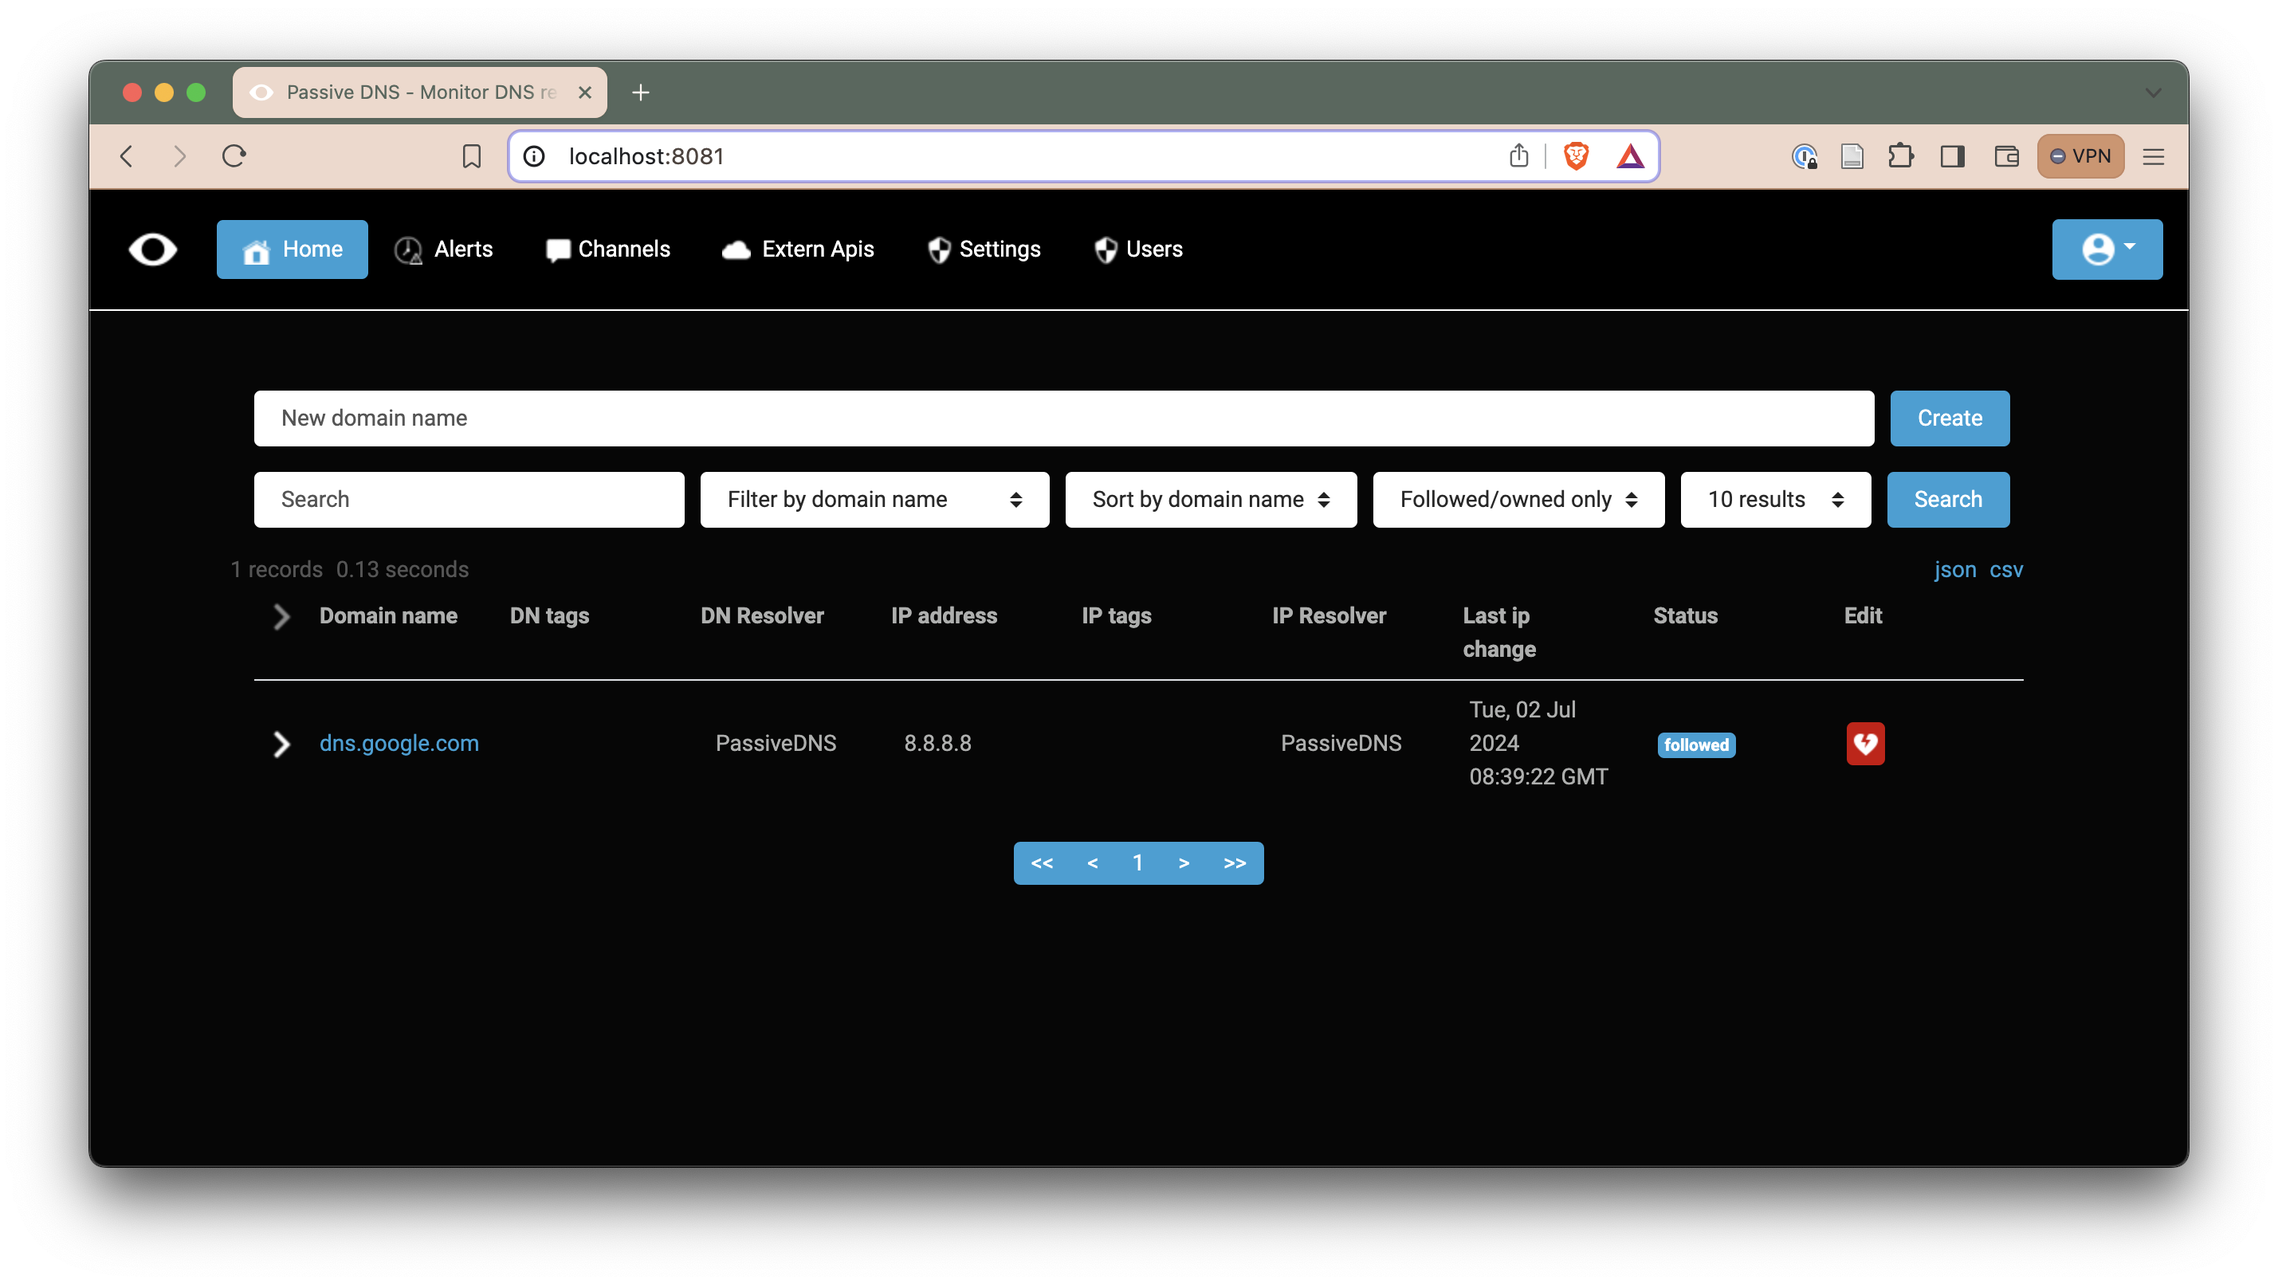
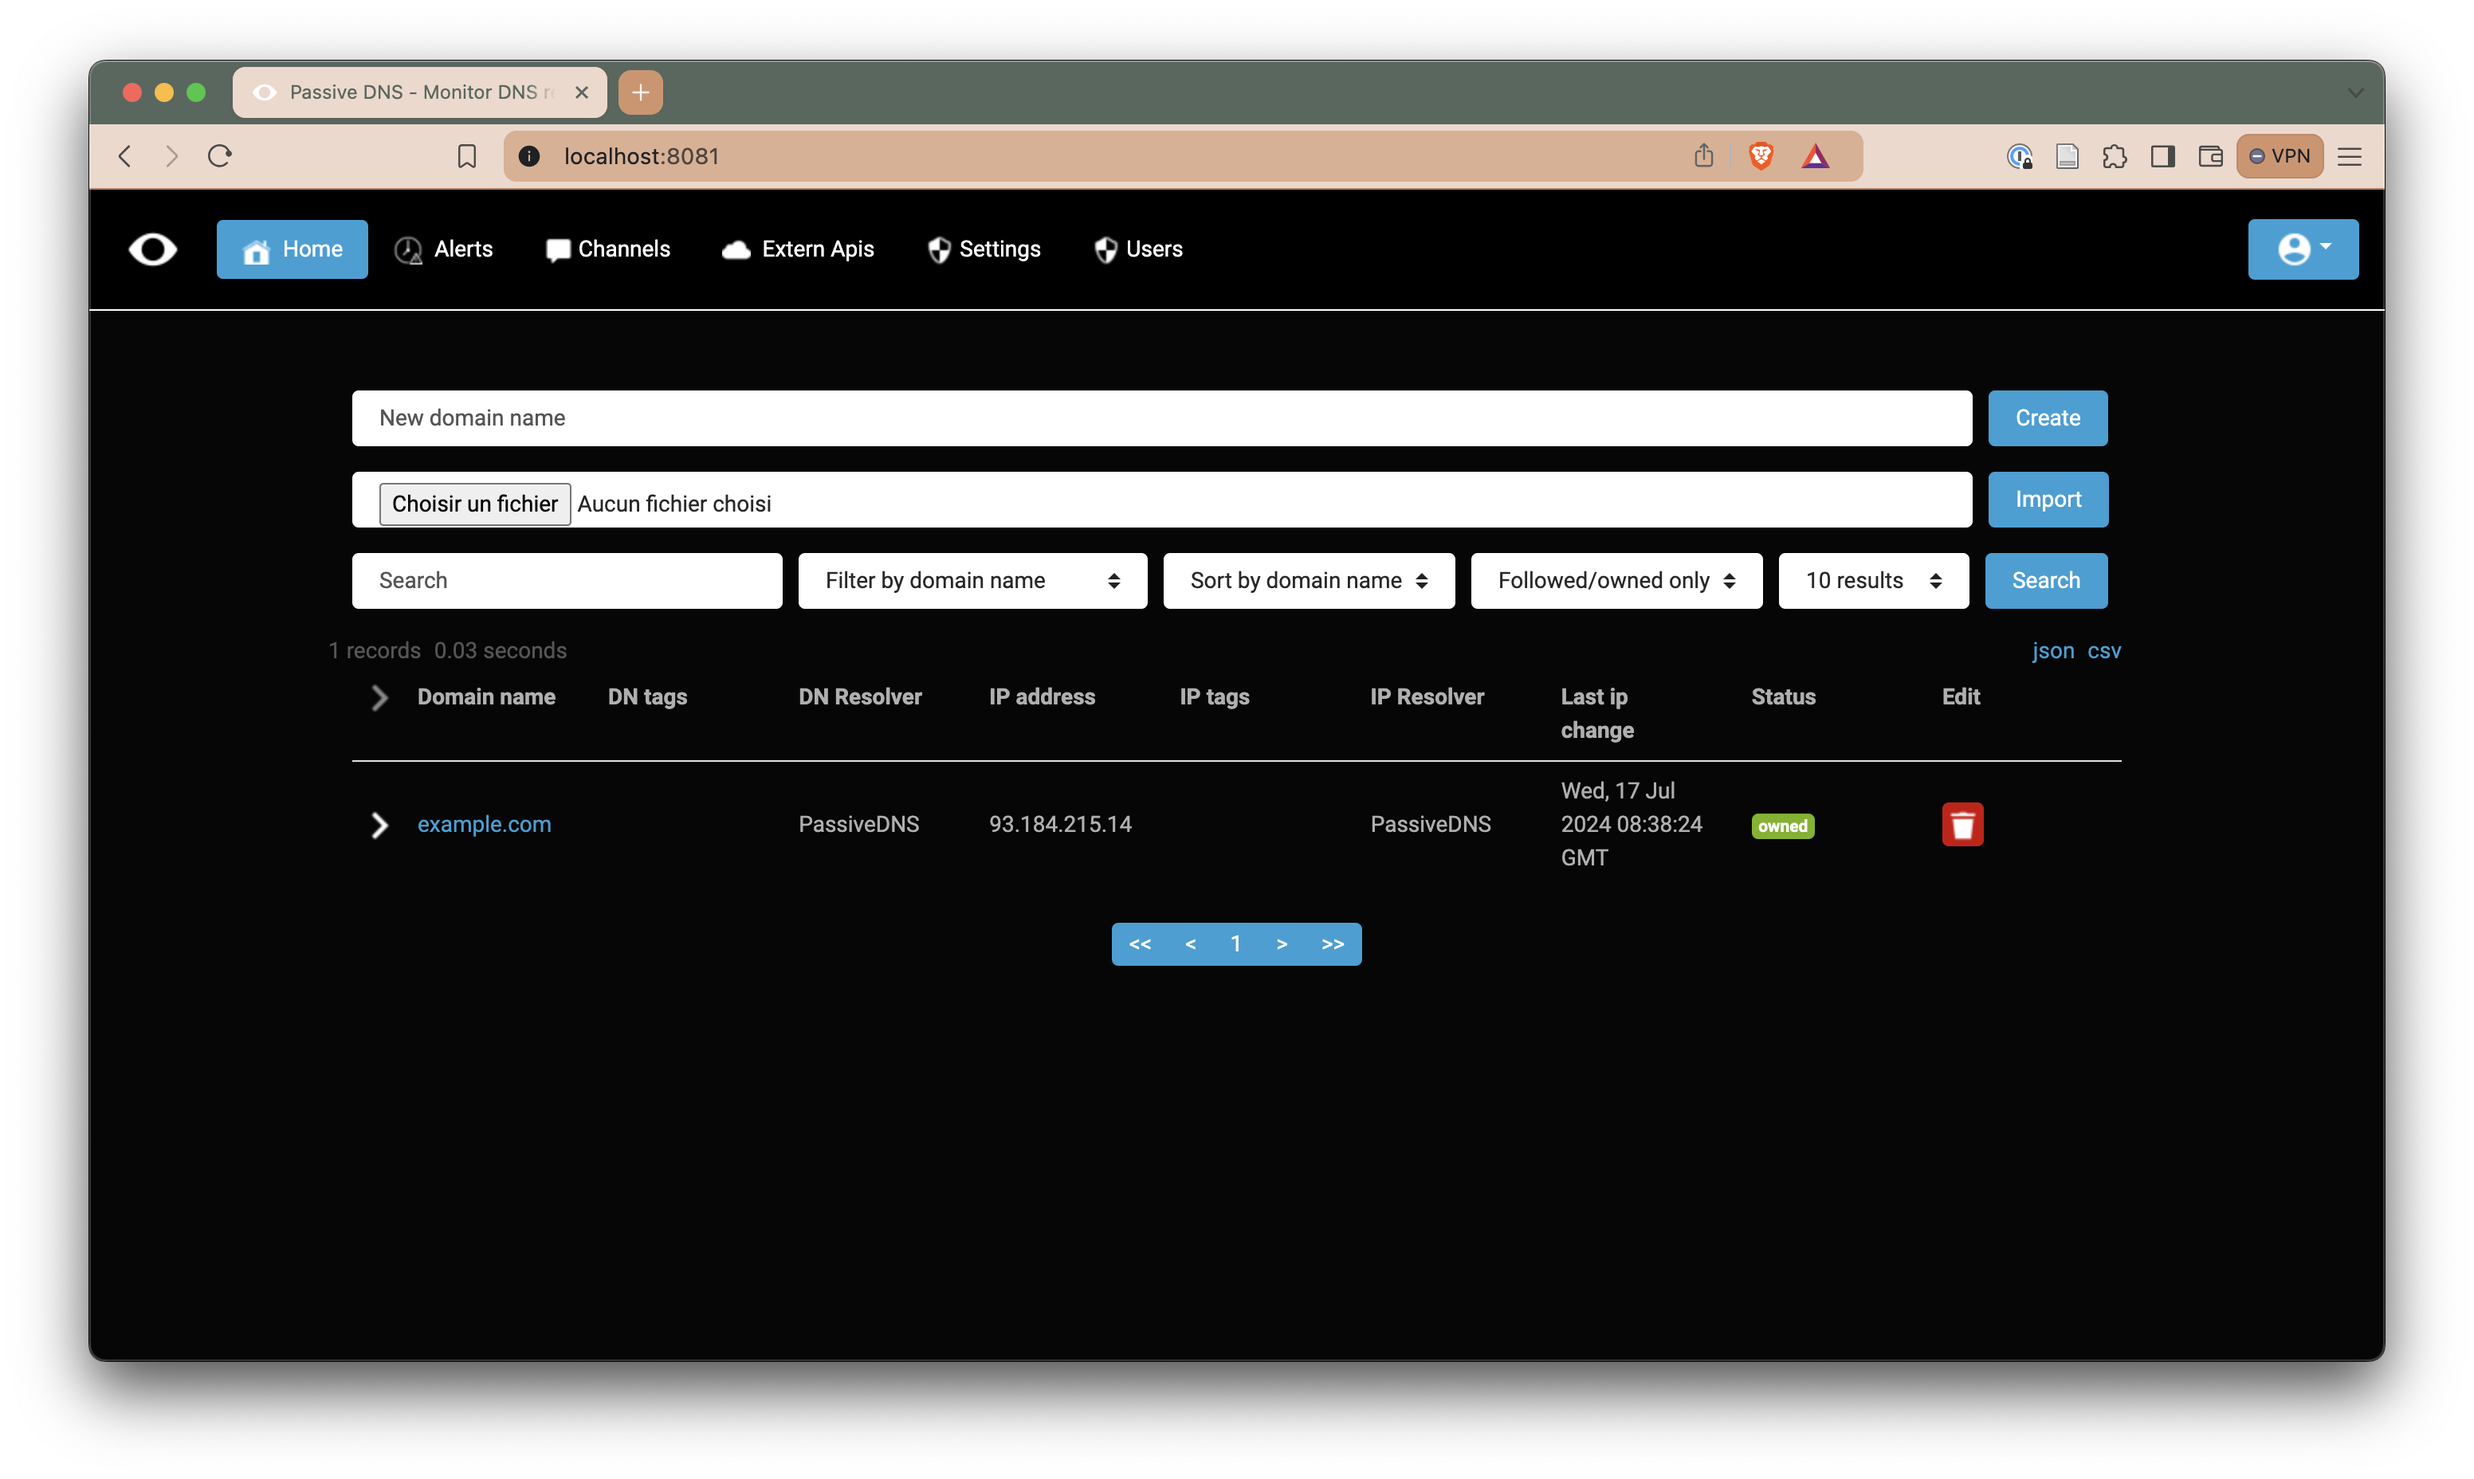
Update doc with user and import from file

diff --git a/content/docs/user-guide/administrator.md b/content/docs/user-guide/administrator.md
@@ -17,27 +17,36 @@ They can:
 ## Settings
 
 The settings page allows the administrator to manage the existing channels and create new ones.
-There are two types of channels :
-- The email channel requires an SMTP host, port, a sender email and a sender password.
-- The Redis channel requires a database number, a host, port, a queue name and a password (optional).
+The channels used are using Redis, and require a name, a database number, a host (default redis) and a port (default 6379).
 
 ## Users
 
 The users page allows the administrator to:
 - Remove existing users,
 - Create or edit a scheduler,
-- Send an invitation for a new user,
-- Manage requests from users.
+- Create a new user
 
-## Create a new administrator or user
+## Create a new administrator using CLI 
 
 If there is a need for multiple administrators, a new administrator can be created using the shell inside the API container (see the [production installation](../../installation/production/#create-an-admin-user) for more details) using the following command:
 
 ```bash
-../docker-entrypoint.sh create-user [USERNAME] [PASSWORD] [EMAIL] --admin
+../docker-entrypoint.sh create-user [USERNAME] [PASSWORD] --admin
 ```
-Replacing `[USERNAME]`, `[PASSWORD]` and `[EMAIL]` with the corresponding data.
-Removing the `--admin` option will create a simple user.
+Replacing `[USERNAME]` and `[PASSWORD]` with the corresponding data.
+Removing the `--admin` option will create a simple user, and adding `--scheduler` will create a new scheduler.
+
+There are also two other commands that can be used in the CLI:
+
+```bash
+../docker-entrypoint.sh delete-user [USERNAME]
+```
+Will remove a user, no matter their role (admin, scheduler or user).
+
+```bash
+../docker-entrypoint.sh reset-password [USERNAME] [NEW_PASSWORD]
+```
+Will change the password of a user.
 
 ## Add a new extern API
 
@@ -96,8 +105,6 @@ Then, you need to add the formatting function for you new API, at the end of the
         ...
 
         return out
-
-
 ...
 ```
 {{< callout type="info" >}}

diff --git a/content/docs/user-guide/user.md b/content/docs/user-guide/user.md
@@ -9,20 +9,7 @@ The user is the most classic role, that allows to access every functionality des
 
 ## New user
 
-If you do not have a user account, you can request an account with 2 options :
-
-{{% steps %}}
-
-### Request using the web app
-- On the login page, click "Request access" and enter your email address to send a link to the administrators
-- The administrator have to review your request and accept it
-- Using the token you recieved by email, you can then create your account using "Register"
-
-### From an administrator
-- Contact an Administrator so that they invite you using your email address
-- Using the token you recieved by email, you can then create your account using "Register"
-
-{{% /steps %}}
+If you do not have a user account, you need to ask the administrator to create one for you. They will then give you a username and a password that you can change in the settings once logged in.
 
 
 ## User interface
@@ -34,7 +21,23 @@ Once a user is logged in, the home page looks like this :
 From there, a user can :
 - View details of the existing domain names
 - Add a new domain name
+- Import a list of domains using a file
 - Filter the domain names and export in json or csv
+
+## Domain names
+
+If a domain name fails to be created, it may have been created by another user. Filtering the domain names with `no ownership filter` will display the domains that are not owned or followed by the user. It is then possible to follow them by clicking the heart shaped button.
+
+## Import from file
+
+It is possible to import a list of domain names from a file rather than adding them one by one.
+The file must be `.csv` or `.txt`, and there must be one domain per line.
+For example:
+``` {filename="domains.csv"}
+example.com
+github.com
+dns.google.com
+```
 
 ## Alerts
 

diff --git a/README.md b/README.md
@@ -1,21 +1,12 @@
-# Passive DNS Demo
+# Passive DNS Documentation
 
-This repository holds the Passive DNS frontend built (see the [docs branch](https://github.com/PassiveDNS/PassiveDNS.github.io/tree/docs)).
+The documentation of the passiveDNS app is deployed using the Github Pages: https://passivedns.github.io/
 
-It is deployed using the Github Pages: https://passivedns.github.io/
+It is using Hugo and Hextra template.
 
-To access the application as a user, you can use the credentials:
-- username: `demo`
-- password: `demo`
+The documentation describes everything about the application:
+- Installation process
+- User guide
+- Architecture
 
-To access it as an admin:
-- username: `admin`
-- password: `admin`
-
-The data available is all static and mocked. No API and database is binded to this frontend.
-Therefore, you cannot add or delete any of the data.
-
-To have a deeper look about all the available features (like domain creation, channel usage...), you should install the project on your machine:
-https://github.com/PassiveDNS/PassiveDNS/wiki/Installation
-
-
+If you encounter any problem, feel free to create an issue, we will make sure to tackle it as fast as we can.

diff --git a/content/docs/architecture/database.md b/content/docs/architecture/database.md
@@ -22,11 +22,10 @@ It is initialized when creating an admin user when the app is started for the fi
 ```json
 {
     "_key": "username",
-    "email": "str",
     "hashed_password": "str",
-    "role": "User|Admin|Scheduler",
+    "role": "user|admin|scheduler",
     "api_keys": {
-        "api_name":"str",
+        "api_name":"key",
         "..."
     }
 }
@@ -55,20 +54,6 @@ It is initialized when creating an admin user when the app is started for the fi
         "host": "str",
         "port": "str",
         "db": "str"
-    },
-}
-
-```
-OR
-```json
-{
-    "_key": "name",
-    "type": "email",
-    "infos": {
-        "smtp_host": "str",
-        "smtp_port": "str",
-        "sender_email": "str",
-        "sender_password": "str"
     },
 }
 
@@ -102,27 +87,6 @@ OR
 ```json
 {
     "_key": "name",
-}
-
-```
-
-#### UserRequest
-
-```json
-{
-    "_key": "email",
-    "requested-at": "datetime",
-}
-
-```
-
-#### UserPending
-
-```json
-{
-    "_key": "token",
-    "email": "str",
-    "invited_at": "datetime",
 }
 
 ```

diff --git a/content/docs/installation/development.md b/content/docs/installation/development.md
@@ -119,8 +119,8 @@ By default, the database is not initialized. You **need** to create an admin use
 Either by Docker Desktop or by CLI, in a shell of the API container (separate from the one you are running the app with) :
 
 ```bash
-../docker-entrypoint.sh create-user [USERNAME] [PASSWORD] [EMAIL] --admin
+../docker-entrypoint.sh create-user [USERNAME] [PASSWORD] --admin
 
 ```
 
-Replacing `[USERNAME]`, `[PASSWORD]` and `[EMAIL]` with the corresponding data (note : not using the `--admin` option will create a simple user).
+Replacing `[USERNAME]` and `[PASSWORD]` with the corresponding data.

diff --git a/content/docs/installation/production.md b/content/docs/installation/production.md
@@ -103,9 +103,9 @@ Either by Docker Desktop or by CLI, in a shell of the API container :
 
 Then, create a new admin user with:
 ```bash
-../docker-entrypoint.sh create-user [USERNAME] [PASSWORD] [EMAIL] --admin
+../docker-entrypoint.sh create-user [USERNAME] [PASSWORD] --admin
 ```
-Replacing `[USERNAME]`, `[PASSWORD]` and `[EMAIL]` with the corresponding data (note : not using the `--admin` option will create a simple user).
+Replacing `[USERNAME]` and `[PASSWORD]` with the corresponding data.
 
 ## Setup the scheduler
 
